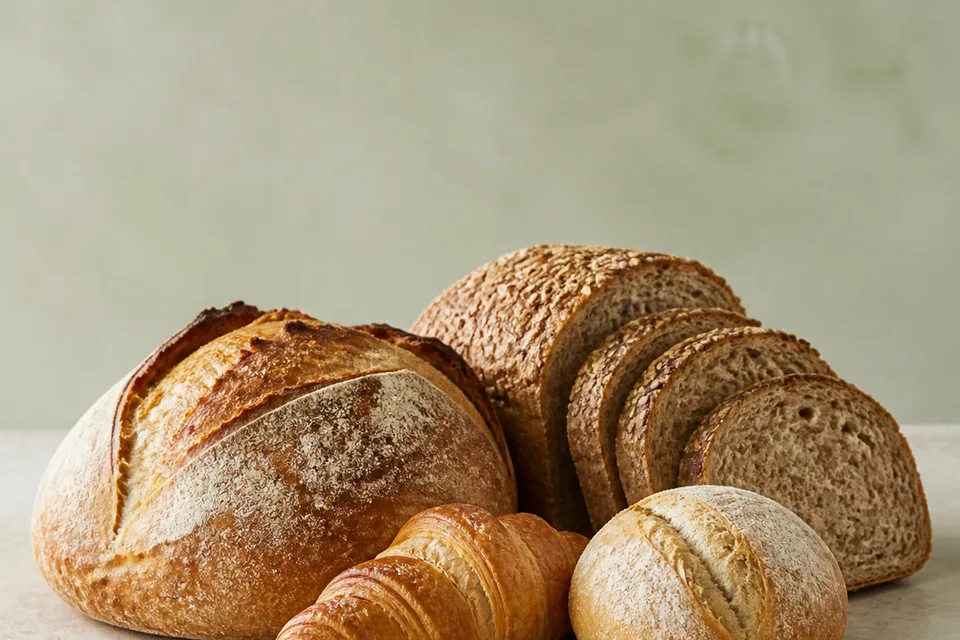
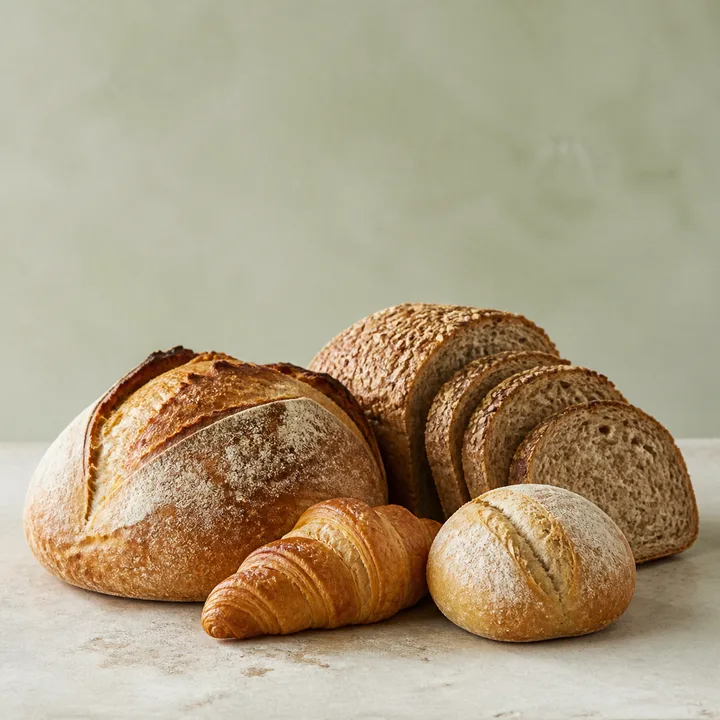
Show category artwork in a grid

diff --git a/apps/web/src/app/products/department-artwork.module.css b/apps/web/src/app/products/department-artwork.module.css
@@ -1,6 +1,7 @@
 .departmentList {
   display: grid;
-  gap: 18px;
+  grid-template-columns: repeat(4, minmax(0, 1fr));
+  gap: 16px;
 }
 
 .department {
@@ -12,15 +13,20 @@
   scroll-margin-top: 18px;
 }
 
+.department[open] {
+  grid-column: 1 / -1;
+}
+
 .departmentSummary {
+  position: relative;
   display: grid;
-  grid-template-columns: 148px minmax(0, 1fr) auto auto;
-  align-items: center;
-  gap: 18px;
-  min-height: 108px;
-  padding: 12px 18px 12px 12px;
+  grid-template-rows: auto 1fr auto;
+  gap: 12px;
+  height: 100%;
+  padding: 12px;
   cursor: pointer;
   list-style: none;
+  box-sizing: border-box;
 }
 
 .departmentSummary::-webkit-details-marker {
@@ -29,17 +35,19 @@
 
 .departmentSummary::after {
   content: "+";
+  position: absolute;
+  top: 22px;
+  right: 22px;
   display: grid;
-  grid-column: 4;
-  grid-row: 1;
   place-items: center;
-  width: 30px;
-  height: 30px;
+  width: 32px;
+  height: 32px;
   border-radius: 999px;
-  background: #edf5ef;
+  background: rgba(255, 255, 255, 0.9);
   color: #2e6b46;
   font-size: 1.25rem;
   font-weight: 700;
+  box-shadow: 0 4px 14px rgba(28, 48, 38, 0.12);
   transition: transform 0.2s ease;
 }
 
@@ -49,8 +57,8 @@
 
 .departmentArtwork {
   display: block;
-  width: 148px;
-  height: 92px;
+  width: 100%;
+  aspect-ratio: 1;
   overflow: hidden;
   border-radius: 16px;
   background: #eef3ef;
@@ -60,22 +68,26 @@
   display: block;
   width: 100%;
   height: 100%;
-  object-fit: cover;
+  object-fit: contain;
 }
 
 .departmentHeading {
   display: grid;
+  align-content: start;
   gap: 6px;
   min-width: 0;
+  padding: 0 4px;
 }
 
 .departmentHeading strong {
   color: #17231c;
-  font-size: clamp(1.15rem, 2vw, 1.5rem);
-  line-height: 1.1;
+  font-size: clamp(1.1rem, 1.5vw, 1.35rem);
+  line-height: 1.15;
 }
 
 .departmentCount {
+  justify-self: start;
+  margin: 0 4px 4px;
   padding: 7px 11px;
   border-radius: 999px;
   background: #edf5ef;
@@ -85,36 +97,81 @@
   white-space: nowrap;
 }
 
+.department[open] .departmentSummary {
+  grid-template-columns: 112px minmax(0, 1fr) auto;
+  grid-template-rows: auto;
+  align-items: center;
+  gap: 18px;
+  height: auto;
+  padding: 12px 64px 12px 12px;
+}
+
+.department[open] .departmentArtwork {
+  width: 112px;
+}
+
+.department[open] .departmentCount {
+  justify-self: end;
+  margin: 0;
+}
+
 .departmentProducts {
   padding: 4px 18px 18px;
 }
 
+@media (max-width: 1100px) {
+  .departmentList {
+    grid-template-columns: repeat(3, minmax(0, 1fr));
+  }
+}
+
 @media (max-width: 760px) {
   .departmentList {
+    grid-template-columns: repeat(2, minmax(0, 1fr));
     gap: 12px;
   }
 
   .departmentSummary {
-    grid-template-columns: 92px minmax(0, 1fr) auto;
-    gap: 12px;
-    min-height: 86px;
-    padding: 10px 12px 10px 10px;
+    gap: 9px;
+    padding: 9px;
   }
 
   .departmentSummary::after {
-    grid-column: 3;
-    width: 26px;
-    height: 26px;
+    top: 16px;
+    right: 16px;
+    width: 28px;
+    height: 28px;
     font-size: 1rem;
   }
 
   .departmentArtwork {
-    width: 92px;
-    height: 68px;
     border-radius: 13px;
   }
 
+  .departmentHeading {
+    padding: 0 2px;
+  }
+
+  .departmentHeading strong {
+    font-size: 1rem;
+  }
+
   .departmentCount {
+    margin: 0 2px 2px;
+    padding: 6px 9px;
+  }
+
+  .department[open] .departmentSummary {
+    grid-template-columns: 76px minmax(0, 1fr);
+    gap: 12px;
+    padding: 9px 52px 9px 9px;
+  }
+
+  .department[open] .departmentArtwork {
+    width: 76px;
+  }
+
+  .department[open] .departmentCount {
     display: none;
   }
 
